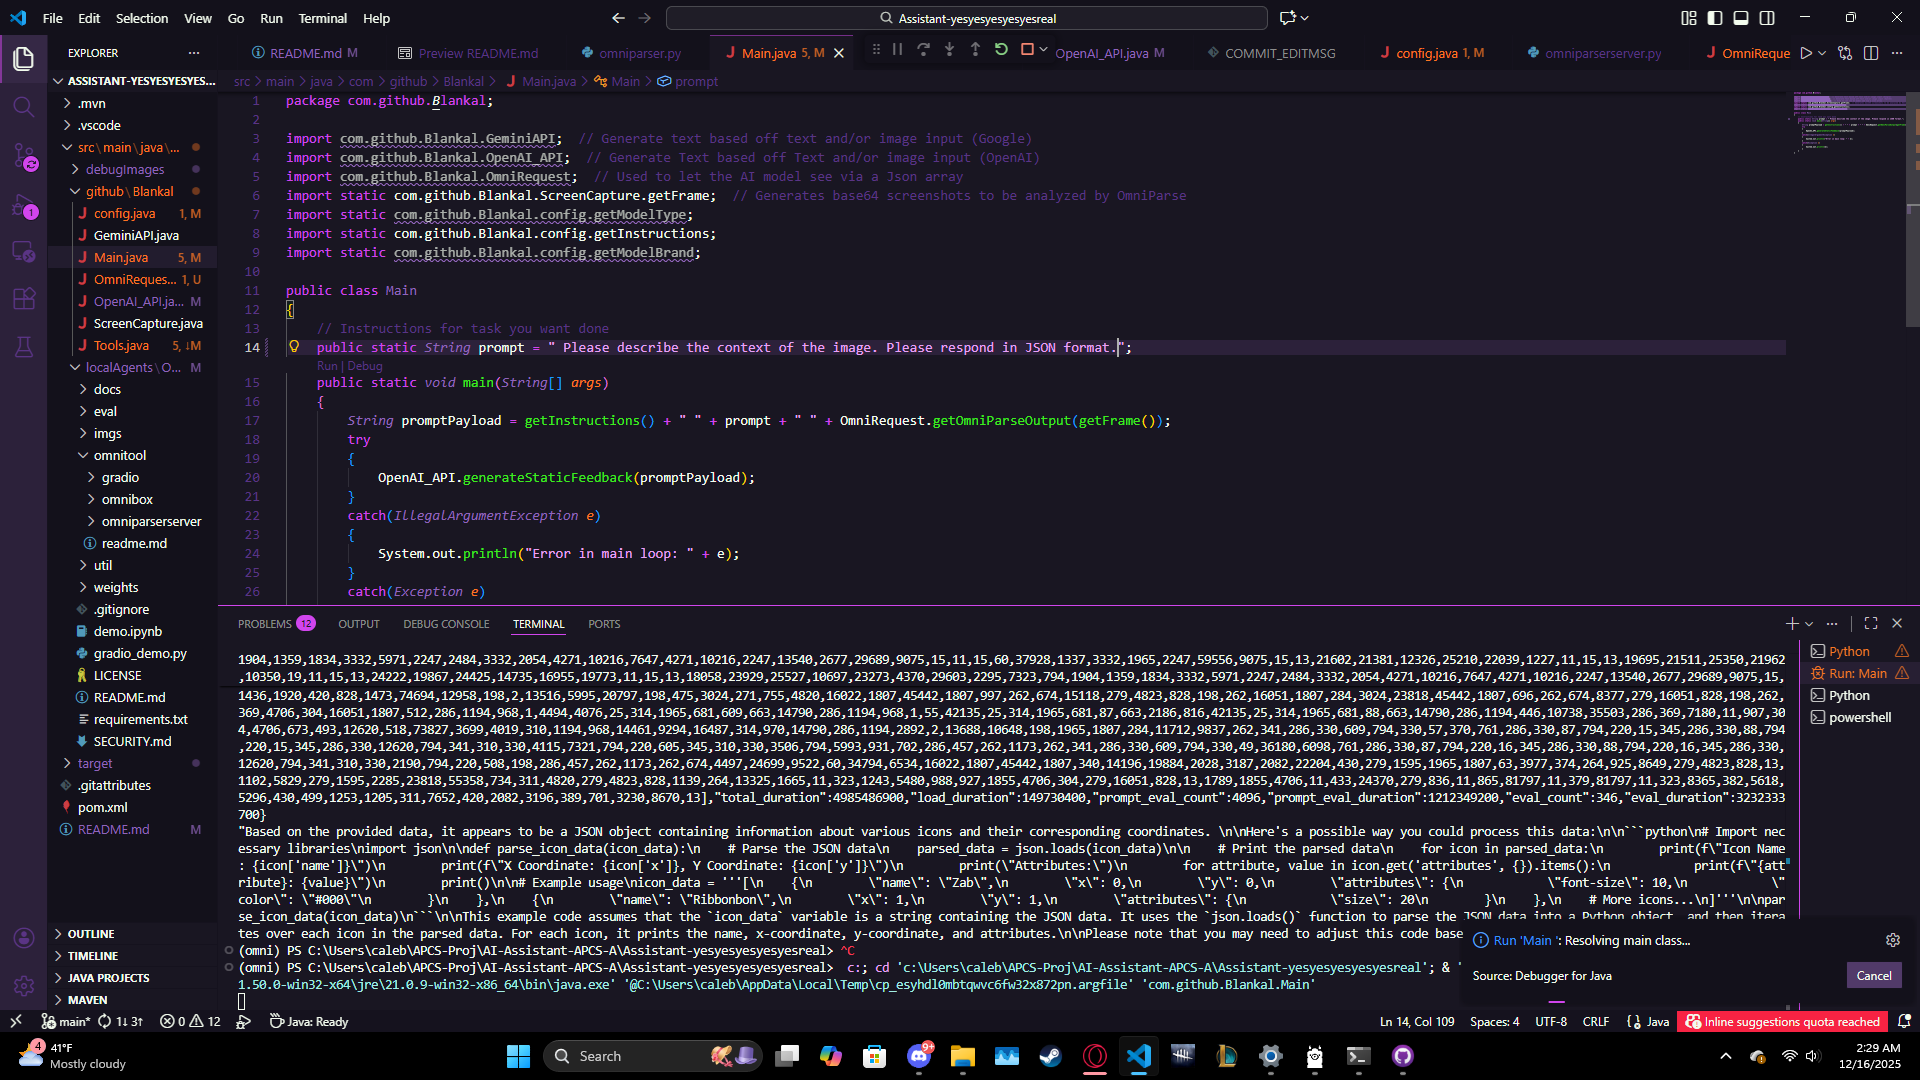
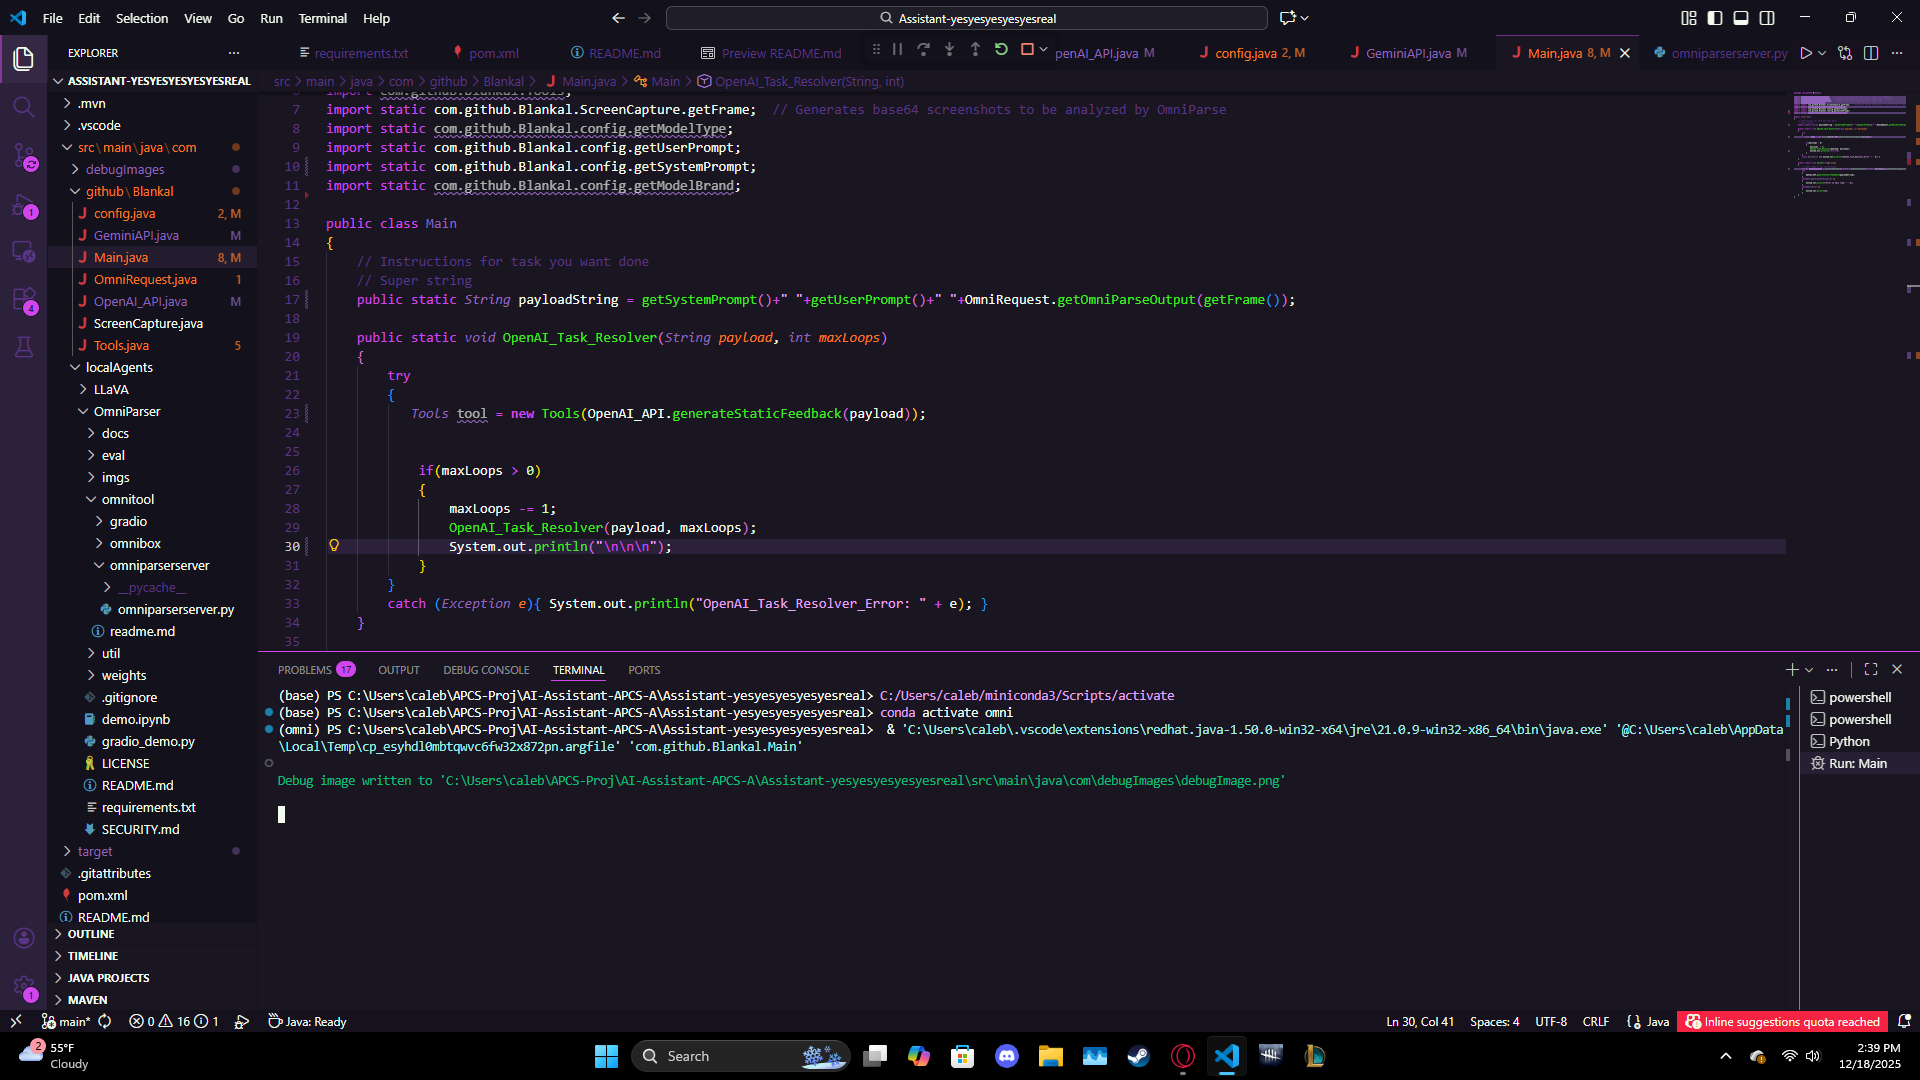
modified:   src/main/java/com/debugImages/debugImage.png 	modified:   src/main/java/com/github/Blankal/GeminiAPI.java 	modified:   src/main/java/com/github/Blankal/Main.java 	modified:   src/main/java/com/github/Blankal/OpenAI_API.java 	modified:   src/main/java/com/github/Blankal/config.java 	modif

diff --git a/src/main/java/com/github/Blankal/config.java b/src/main/java/com/github/Blankal/config.java
@@ -19,9 +19,9 @@ public class config {
     private static final String USER_PROMPT = "Please use the function to bring me to youtube";
     private static final int[] SCREEN_DIMENSIONS = { Toolkit.getDefaultToolkit().getScreenSize().width, Toolkit.getDefaultToolkit().getScreenSize().height };  // Only reads monitor 1 :(
     private static final String IMAGE_TYPE = "png";  // Use to set image type for screenshot(Lossy formats may mess with AI vision)
-    private static final String INSTRUCTIONS =  // Instructions used to orient the model. DO NOT CHANGE unless you know what you're doing.
+    private static final String SYSTEM_PROMPT =  // Instructions used to orient the model. DO NOT CHANGE unless you know what you're doing.
         "You are a planner/agent that must respond with exactly ONE valid JSON object and nothing else (no markdown, no code fences, no explanation). The JSON must match this schema and key spelling exactly: {\"context\":string,\"completedTasks\":string[],\"toDo\":[{\"task\":string,\"status\":\"not started\"|\"in progress\"|\"done\",\"details\"?:string}],\"KeyInformation\":{\"due date\":string,\"word count\":string,\"formatting requirements\":string},\"ToolList\":[{\"name\":string,\"description\":string}],\"actionHistory\":object[],\"action\":object,\"WhatToDoNext\":string,\"ScreenElements\":string,\"Finished\":boolean}. Rules: Output MUST be valid JSON (double quotes, no trailing commas). Include every top-level key shown in the schema, even if empty (use [] or \"\" or {}). Do not invent tools: ToolList must only contain tools provided by the user input. action must only use tool names from ToolList as keys. If required information is missing, set the relevant value to \"\" (or []), set \"Finished\" to false, and set \"WhatToDoNext\" to a concrete step to obtain the missing info.";
-    private static final String OMNI_PARSER_ADDRESS = "http://127.0.0.1:8001/";  // Can only be changed from "omniparserserver.py" file
+    private static final String OMNI_PARSER_ADDRESS = "http://127.0.0.1:8001/";  // Probably don't change this as it has to match the same address as omniparserserver.py's version
 
     // CONFIG GETTERS
     public static String getModelType()
@@ -44,9 +44,9 @@ public class config {
     {
         return IMAGE_TYPE;
     }
-    public static String getInstructions()
+    public static String getSystemPrompt()
     {
-        return INSTRUCTIONS;
+        return SYSTEM_PROMPT;
     }
     public static String getOmniParserAddress()
     {

diff --git a/src/main/java/com/github/Blankal/Main.java b/src/main/java/com/github/Blankal/Main.java
@@ -7,28 +7,27 @@ import com.github.Blankal.Tools;
 import static com.github.Blankal.ScreenCapture.getFrame;  // Generates base64 screenshots to be analyzed by OmniParse
 import static com.github.Blankal.config.getModelType;
 import static com.github.Blankal.config.getUserPrompt;
-import static com.github.Blankal.config.getInstructions;
+import static com.github.Blankal.config.getSystemPrompt;
 import static com.github.Blankal.config.getModelBrand;
-import static com.github.Blankal.Tools;
 
 public class Main 
 {
     // Instructions for task you want done
     // Super string
-    public static String payloadString = getInstructions()+" "+getUserPrompt()+" "+OmniRequest.getOmniParseOutput(getFrame());
+    public static String payloadString = getSystemPrompt()+" "+getUserPrompt()+" "+OmniRequest.getOmniParseOutput(getFrame());
 
     public static void OpenAI_Task_Resolver(String payload, int maxLoops)
     {
         try
         {
-            OpenAI_API.generateStaticFeedback(payload);
+           Tools tool = new Tools(OpenAI_API.generateStaticFeedback(payload));
 
             
             if(maxLoops > 0)
             {
                 maxLoops -= 1;
                 OpenAI_Task_Resolver(payload, maxLoops);
-                System.out.println("\n");
+                System.out.println("\n\n\n");
             }
         }
         catch (Exception e){ System.out.println("OpenAI_Task_Resolver_Error: " + e); }
@@ -37,7 +36,7 @@ public class Main
     public static void main(String[] args)
     {
         // Super combo of all instructions
-        String promptPayload = getInstructions() + " " + getUserPrompt() + " " + OmniRequest.getOmniParseOutput(getFrame());
+        String promptPayload = getSystemPrompt() + " " + getUserPrompt() + " " + OmniRequest.getOmniParseOutput(getFrame());
         try
         {
             OpenAI_API.generateStaticFeedback(payloadString);

diff --git a/src/main/java/com/github/Blankal/GeminiAPI.java b/src/main/java/com/github/Blankal/GeminiAPI.java
@@ -2,7 +2,7 @@ package com.github.Blankal;
 
 import com.google.genai.Client;  // AI Client
 import com.google.genai.types.GenerateContentResponse;  // Generative AI
-import static com.github.Blankal.config.getInstructions;
+import static com.github.Blankal.config.getSystemPrompt;;
 
 public class GeminiAPI {
 
@@ -42,7 +42,7 @@ public class GeminiAPI {
     GenerateContentResponse response =
         client.models.generateContent(
             modelName,
-            getInstructions() + prompt + "\nImage (Base64): " + image,
+            getSystemPrompt() + prompt + "\nImage (Base64): " + image,
             null
             );
 

diff --git a/src/main/java/com/github/Blankal/OpenAI_API.java b/src/main/java/com/github/Blankal/OpenAI_API.java
@@ -31,7 +31,7 @@ import static com.github.Blankal.config.getModelType;
 
             String toPost = new Gson().toJson(jsonPayload);
 
-            System.out.println("POST:" + toPost);
+            //System.out.println("POST: " + toPost);
 
             HttpRequest request = HttpRequest.newBuilder()
                 .uri(URI.create("http://localhost:11434/api/generate"))
